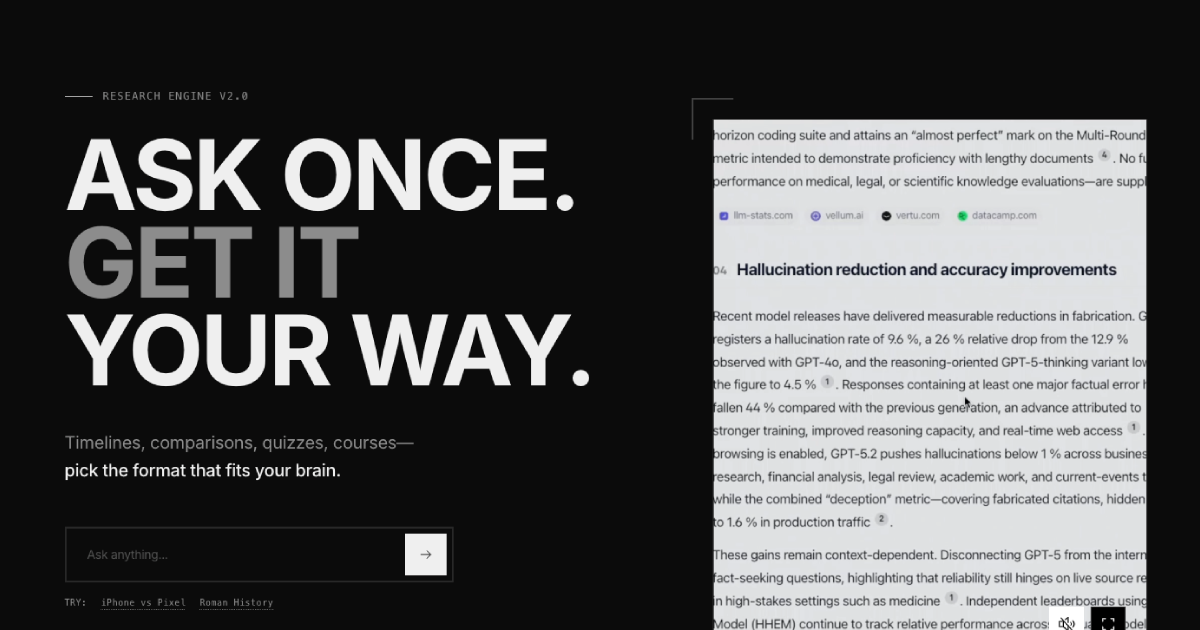
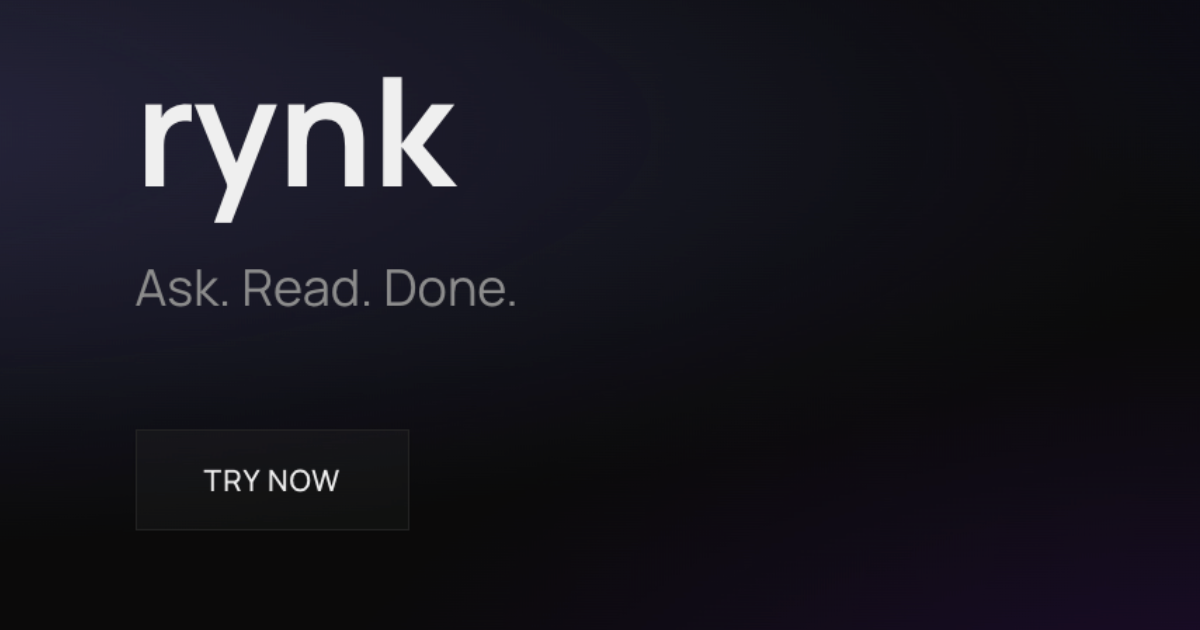
update og

diff --git a/app/layout.tsx b/app/layout.tsx
@@ -30,92 +30,21 @@ export const viewport: Viewport = {
 export const metadata: Metadata = {
   metadataBase: new URL("https://rynk.io"),
   title: {
-    default: "rynk. - AI Chat with Memory, Learning Surfaces & Projects | ChatGPT Alternative",
-    template: "%s | rynk. - Intelligent AI Assistant",
+    default: "rynk. - Ask. Read. Done.",
+    template: "%s | rynk.",
   },
   description:
-    "The best ChatGPT, Claude & Perplexity alternative with perfect memory. AI chat that remembers everything across conversations. Features: Learning Courses, Interactive Quizzes, Flashcards, Timelines, Comparison Tables, Project Workspaces, PDF Chat, Web Search, and Cross-Conversation Context. Free AI assistant that never forgets.",
+    "AI without the noise. Deep research and projects without the fluff. An AI that stays out of your way.",
   keywords: [
-    // Primary keywords
     "AI chat",
     "AI assistant",
-    "artificial intelligence chat",
-    "intelligent chatbot",
-    
-    // Competitor alternatives (high SEO value)
-    "ChatGPT alternative",
-    "ChatGPT free alternative",
-    "Claude alternative",
-    "Claude AI alternative",
-    "Perplexity alternative",
-    "Perplexity AI alternative",
-    "Gemini alternative",
-    "Google Gemini alternative",
-    "Copilot alternative",
-    "Microsoft Copilot alternative",
-    "Anthropic Claude alternative",
-    "OpenAI alternative",
-    "GPT-4 alternative",
-    "GPT alternative free",
-    "better than ChatGPT",
-    "ChatGPT with memory",
-    "AI with long-term memory",
-    
-    // Feature keywords - Surfaces
-    "AI learning courses",
-    "AI quiz generator",
-    "AI flashcard maker",
-    "AI timeline creator",
-    "AI comparison tool",
-    "interactive AI learning",
-    "AI study assistant",
-    "AI tutor",
-    "AI education platform",
-    
-    // Feature keywords - Core
-    "AI chat with files",
-    "chat with PDF",
-    "PDF AI chat",
-    "document AI chat",
-    "AI file analysis",
-    "conversation branching",
-    "message versioning",
-    "chat history management",
-    "AI project management",
+    "Deep Research",
+    "Project management",
+    "research assistant",
     "AI workspace",
-    
-    // Feature keywords - Context & Memory
-    "AI with memory",
-    "AI that remembers",
-    "context-aware AI",
-    "cross-conversation AI",
-    "AI knowledge base",
-    "semantic search AI",
-    "AI context picker",
-    
-    // Feature keywords - Search
-    "AI web search",
-    "real-time AI search",
-    "AI research assistant",
-    "AI with citations",
-    "AI with sources",
-    
-    // Use case keywords
-    "AI for students",
-    "AI for researchers",
-    "AI for learning",
-    "AI for studying",
-    "AI for work",
-    "AI productivity tool",
-    "free AI chat",
-    "best free AI",
-    "AI without login",
-    
-    // Technical keywords
-    "streaming AI responses",
-    "markdown AI chat",
-    "code AI assistant",
-    "AI coding help",
+    "clean AI",
+    "minimal AI",
+    "distraction free AI",
   ],
   authors: [{ name: "rynk. Team" }],
   creator: "rynk.",
@@ -138,26 +67,26 @@ export const metadata: Metadata = {
     type: "website",
     locale: "en_US",
     url: "https://rynk.io",
-    title: "rynk. - AI Chat with Memory & Learning Surfaces | Free ChatGPT Alternative",
+    title: "rynk. - Ask. Read. Done.",
     description:
-      "The smartest ChatGPT alternative with perfect memory. AI that remembers across conversations, creates learning courses, quizzes, flashcards, timelines & comparisons. Chat with PDFs, web search with citations, project workspaces. Try free - no signup required.",
+      "AI without the noise. Deep research and projects without the fluff. An AI that stays out of your way.",
     siteName: "rynk.",
     images: [
       {
         url: "/og-image.png",
         width: 1200,
         height: 630,
-        alt: "rynk. - AI Chat with Memory, Learning Surfaces, Quizzes & Projects",
+        alt: "rynk. - AI without the noise",
       },
     ],
   },
   twitter: {
     card: "summary_large_image",
-    title: "rynk. - AI with Memory & Learning Surfaces | ChatGPT Alternative",
+    title: "rynk. - Ask. Read. Done.",
     description:
-      "Free AI chat that never forgets. Learning courses, quizzes, flashcards, PDF chat, web search, project workspaces. The best ChatGPT & Claude alternative with cross-conversation memory.",
-    creator: "@rynk",
-    site: "@rynk",
+      "AI without the noise. Deep research and projects without the fluff.",
+    creator: "@rynkdotio",
+    site: "@rynkdotio",
     images: ["/og-image.png"],
   },
   icons: {
@@ -235,10 +164,10 @@ export default function RootLayout({
               url: "https://rynk.io",
               logo: "https://rynk.io/favicon.ico",
               description:
-                "The best ChatGPT and Claude alternative with perfect memory. AI chat that remembers across conversations, creates learning courses, quizzes, flashcards, and more.",
-              sameAs: ["https://twitter.com/rynk", "https://github.com/rynk"],
+                "AI without the noise. Deep research and projects without the fluff.",
+              sameAs: ["https://twitter.com/rynkdotio", "https://github.com/rynk"],
               foundingDate: "2024",
-              slogan: "AI that never forgets",
+              slogan: "Ask. Read. Done.",
             }),
           }}
         />
@@ -251,47 +180,37 @@ export default function RootLayout({
               "@context": "https://schema.org",
               "@type": "SoftwareApplication",
               name: "rynk.",
-              alternateName: ["rynk AI", "rynk Chat", "rynk Assistant"],
-              applicationCategory: "EducationalApplication",
+              alternateName: ["rynk AI", "rynk Chat"],
+              applicationCategory: "ProductivityApplication",
               applicationSubCategory: "AI Chat Assistant",
               operatingSystem: "Any",
               browserRequirements: "Requires JavaScript. Requires HTML5.",
               description:
-                "The smartest ChatGPT, Claude, and Perplexity alternative. AI chat with perfect memory that remembers across conversations. Features learning courses, interactive quizzes, flashcards, timelines, comparison tables, PDF chat, web search with citations, and project workspaces.",
+                "AI without the noise. Deep research, context-aware projects, and minimal design. No fluff.",
               offers: [
                 {
                   "@type": "Offer",
                   name: "Free Tier",
                   price: "0",
                   priceCurrency: "USD",
-                  description: "100 queries per month, basic AI chat",
+                  description: "100 queries per month",
                 },
                 {
                   "@type": "Offer",
-                  name: "Standard",
-                  price: "4.99",
+                  name: "Pro",
+                  price: "5.99",
                   priceCurrency: "USD",
-                  description: "1,500 queries per month, web search, projects",
+                  description: "2,500 queries per month",
                 },
               ],
               featureList: [
-                "AI with perfect long-term memory - never loses context",
-                "Learning Surfaces - AI generates full courses with chapters",
-                "Interactive Quizzes with scoring and explanations",
-                "Flashcard Generator for studying and memorization",
-                "Timeline Creator for historical and chronological topics",
-                "Comparison Tables with pros, cons, and recommendations",
-                "PDF and document chat - instant file understanding",
-                "Web search with real-time citations from Exa and Perplexity",
-                "Cross-conversation context - reference any previous chat",
+                "Deep Research - Pulls from multiple sources and synthesizes",
                 "Project workspaces with shared AI memory",
-                "Conversation branching to explore different ideas",
-                "Message editing with version history",
-                "Sub-chats for focused follow-up discussions",
-                "Folders to organize conversations",
-                "Voice-to-text input support",
-                "Dark mode and customizable interface",
-                "Free tier with no signup required",
+                "Cross-conversation context",
+                "Minimal, distraction-free interface",
+                "PDF and document analysis",
+                "Web search with citations",
+                "Free to start, no signup required",
               ],
               screenshot: "https://rynk.io/og-image.png",
               aggregateRating: {
@@ -301,7 +220,6 @@ export default function RootLayout({
                 bestRating: "5",
                 worstRating: "1",
               },
-              keywords: "ChatGPT alternative, Claude alternative, Perplexity alternative, AI chat with memory, AI learning platform, AI quiz generator, AI flashcard maker",
             }),
           }}
         />
@@ -317,7 +235,7 @@ export default function RootLayout({
               alternateName: "rynk AI Chat",
               url: "https://rynk.io",
               description:
-                "The AI that never forgets. The best ChatGPT, Claude, and Perplexity alternative with learning surfaces, quizzes, and cross-conversation memory.",
+                "AI without the noise. Deep research and projects without the fluff.",
               potentialAction: {
                 "@type": "SearchAction",
                 target: {
@@ -330,91 +248,8 @@ export default function RootLayout({
             }),
           }}
         />
-
-        <Script
-          id="faq-schema"
-          type="application/ld+json"
-          dangerouslySetInnerHTML={{
-            __html: JSON.stringify({
-              "@context": "https://schema.org",
-              "@type": "FAQPage",
-              mainEntity: [
-                {
-                  "@type": "Question",
-                  name: "Is rynk. a good ChatGPT alternative?",
-                  acceptedAnswer: {
-                    "@type": "Answer",
-                    text: "Yes! rynk. offers features that ChatGPT doesn't have, including perfect memory across conversations, learning surfaces that generate full courses, interactive quizzes, flashcards, and the ability to reference previous chats as context. It's designed for learning and productivity.",
-                  },
-                },
-                {
-                  "@type": "Question",
-                  name: "How is rynk. different from Claude or Perplexity?",
-                  acceptedAnswer: {
-                    "@type": "Answer",
-                    text: "Unlike Claude, rynk. remembers your conversations forever and can reference any past chat. Unlike Perplexity, rynk. offers learning surfaces like courses, quizzes, and flashcards. rynk. combines the best of both: AI chat with memory plus research capabilities with citations.",
-                  },
-                },
-                {
-                  "@type": "Question",
-                  name: "Can I use rynk. for free?",
-                  acceptedAnswer: {
-                    "@type": "Answer",
-                    text: "Absolutely! rynk. offers a free tier with 100 queries per month. You can start chatting immediately without signing up. The free tier includes all core features including learning surfaces, file uploads, and conversation branching.",
-                  },
-                },
-                {
-                  "@type": "Question",
-                  name: "What are Learning Surfaces?",
-                  acceptedAnswer: {
-                    "@type": "Answer",
-                    text: "Learning Surfaces transform AI responses into interactive learning formats. Instead of just text, you can generate: Learning Courses with chapters, Interactive Quizzes with scoring, Flashcards for memorization, Timelines for historical topics, and Comparison Tables for decision-making.",
-                  },
-                },
-                {
-                  "@type": "Question",
-                  name: "Can rynk. chat with my PDFs and documents?",
-                  acceptedAnswer: {
-                    "@type": "Answer",
-                    text: "Yes! Upload PDFs, documents, images, and code files. rynk. instantly understands and indexes your files, allowing you to ask questions about them. Files are chunked and embedded for semantic search, so the AI truly understands your content.",
-                  },
-                },
-              ],
-            }),
-          }}
-        />
-
-        <Script
-          id="product-schema"
-          type="application/ld+json"
-          dangerouslySetInnerHTML={{
-            __html: JSON.stringify({
-              "@context": "https://schema.org",
-              "@type": "Product",
-              name: "rynk. - AI Chat with Memory",
-              description: "The smartest AI chat alternative to ChatGPT, Claude, and Perplexity with perfect memory, learning surfaces, quizzes, flashcards, and project workspaces.",
-              brand: {
-                "@type": "Brand",
-                name: "rynk.",
-              },
-              category: "AI Software",
-              image: "https://rynk.io/og-image.png",
-              offers: {
-                "@type": "AggregateOffer",
-                lowPrice: "0",
-                highPrice: "9.99",
-                priceCurrency: "USD",
-                offerCount: "3",
-              },
-              aggregateRating: {
-                "@type": "AggregateRating",
-                ratingValue: "4.9",
-                reviewCount: "500",
-              },
-            }),
-          }}
-        />
       </body>
     </html>
   );
 }
+
